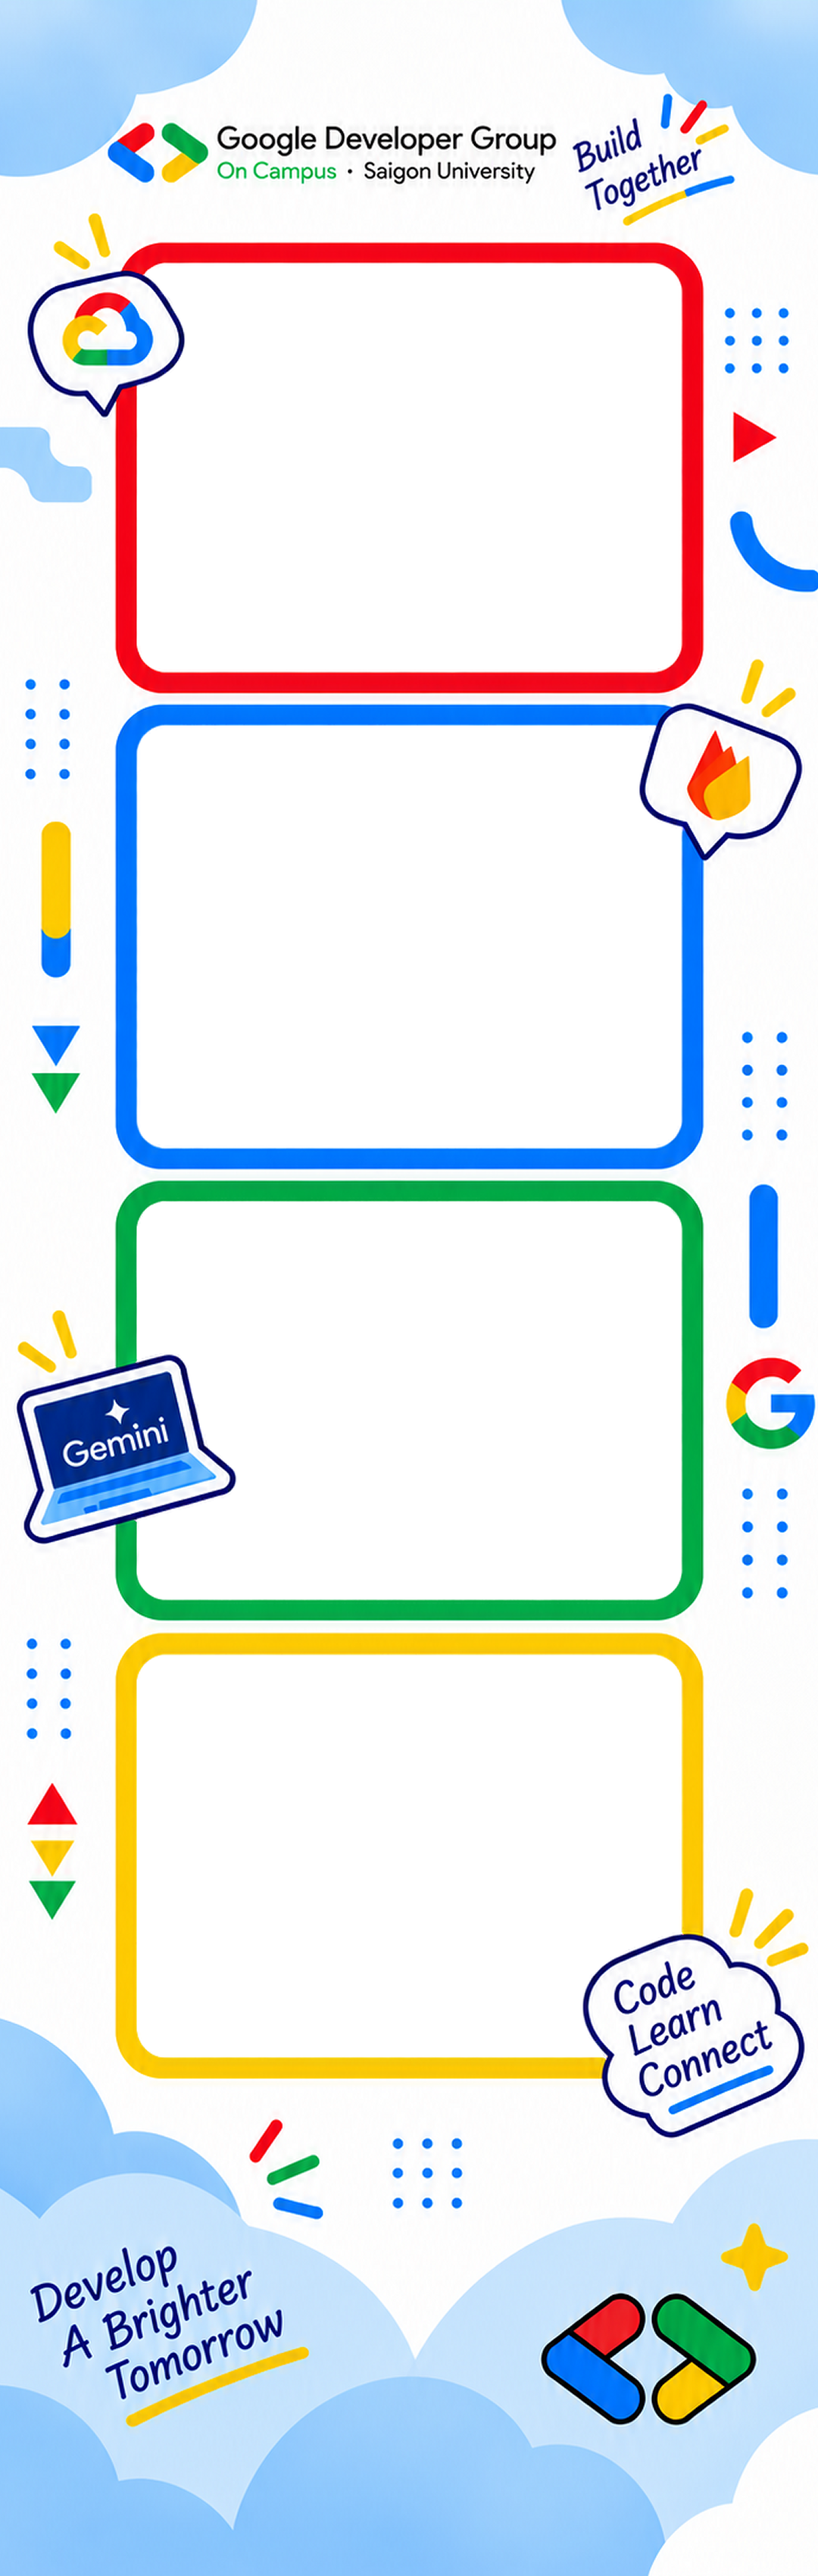
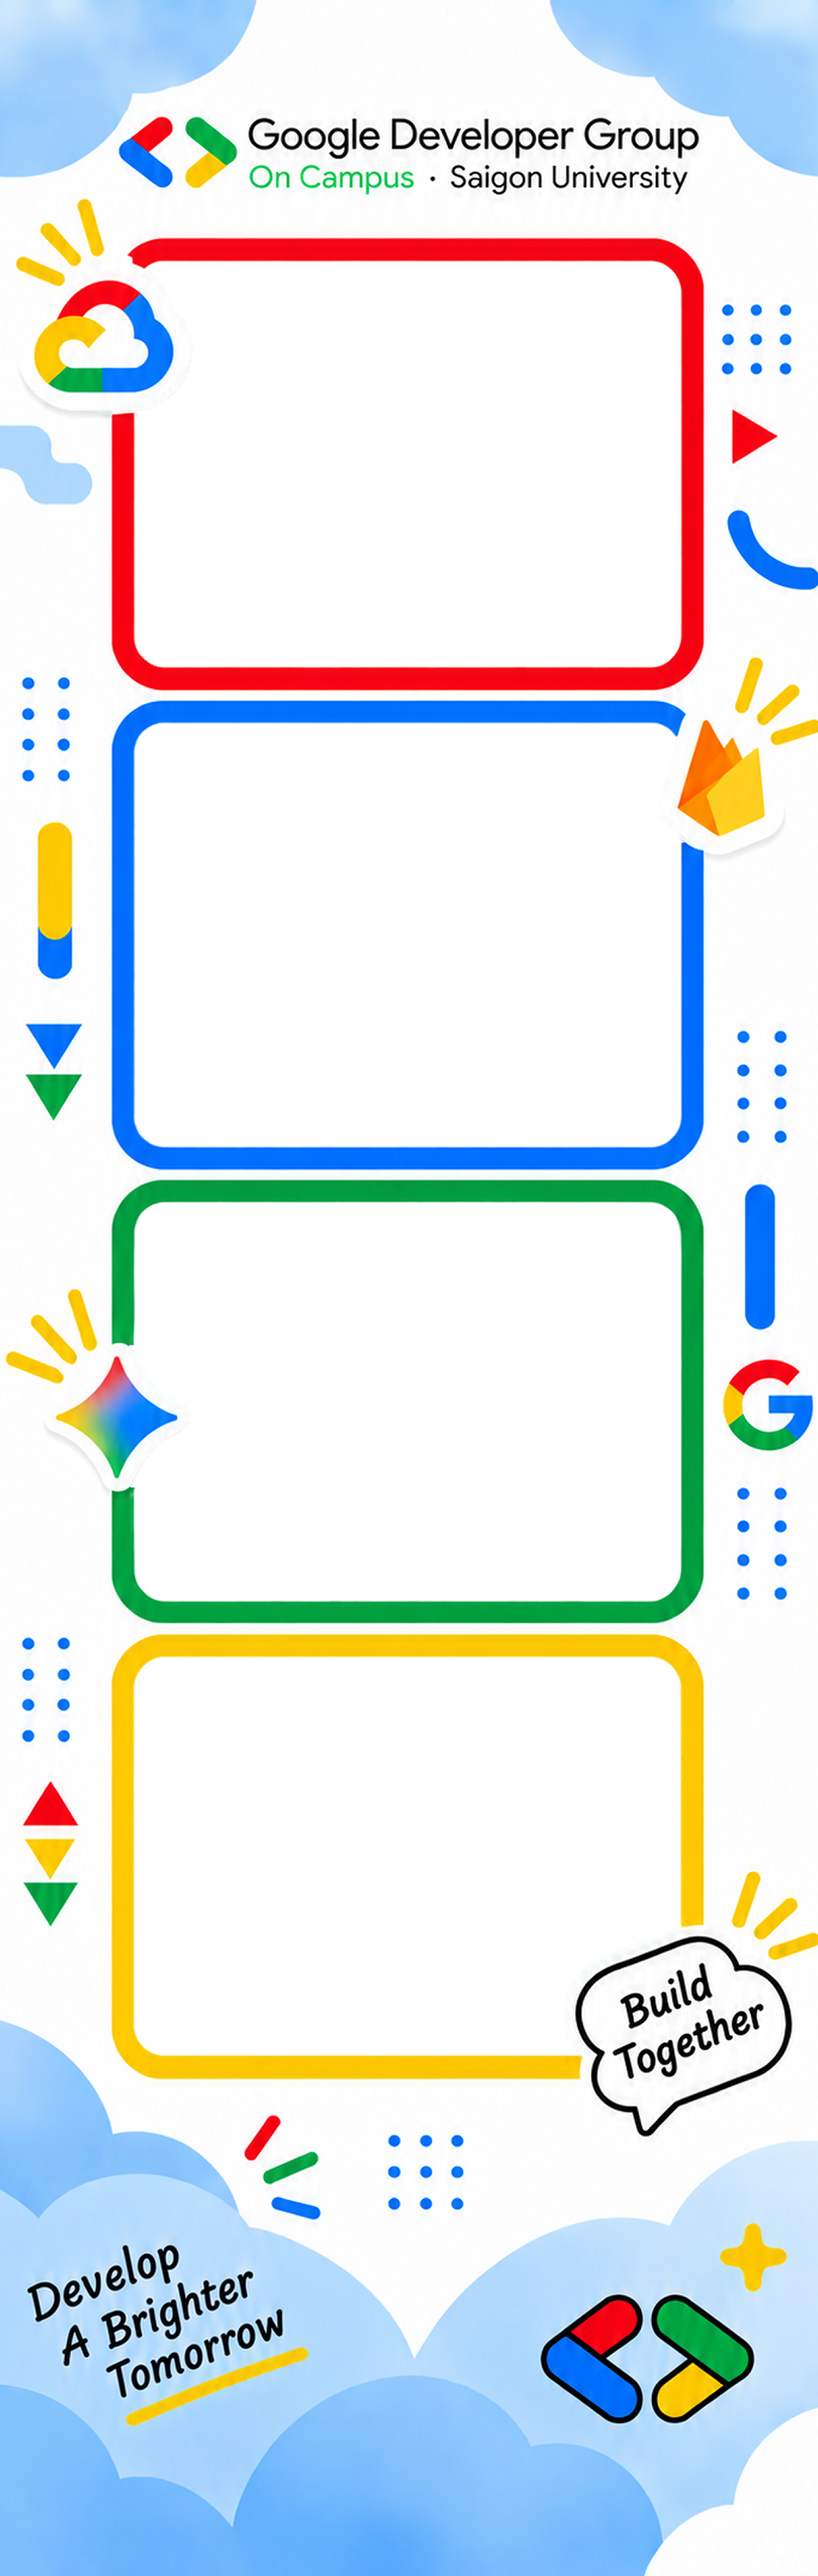
feat(frontend): bộ khung 4 mẫu theo design — F03 ISF, F04 khung chờ
Bảng F-SYS của design giờ có 4 khung, và frames.json của nó khác bản trong
repo ở ba chỗ:

- F01 GDGoC có artwork mới (sticker "Build Together" thay "Code Learn
  Connect", Gemini mới), nên toạ độ bốn ô cũng đổi theo.
- F03 không còn là khung đối tác (f03-partners) mà là khung ISF · Khoa CNTT
  (f03-isf), artwork và ô ảnh riêng.
- Thêm F04 (f04-tpl), khung chờ vẽ trên lưới F-SPEC: chỗ đặt logo BTC ở
  header, logo đối tác ở footer. BTC gửi artwork thì chỉ thay PNG.

Ba PNG lấy nguyên từ asset của design (1080×3400, alpha thật). F02 trùng
khít bản đang có nên giữ. Backend chỉ yêu cầu frameVariant là chuỗi nên
không phải sửa. Dữ liệu mẫu của mock và kiểu FrameId đổi theo id mới.

diff --git a/frontend/src/lib/backend/mock.ts b/frontend/src/lib/backend/mock.ts
@@ -210,11 +210,11 @@ function seedModerationDemo() {
   if (store.photos.length > 0) return;
   const now = Date.now();
   const demo: Array<[string, string, PhotoStatus, string, number]> = [
-    ['mock-131', 'Đức Huy', 'pending', 'f03-partners', 1],
+    ['mock-131', 'Đức Huy', 'pending', 'f03-isf', 1],
     ['mock-130', 'Minh Triết', 'pending', 'f01-gdgoc', 4],
     ['mock-129', 'Lan Anh', 'pending', 'f02-aws', 6],
     ['mock-128', 'Hải Đăng', 'approved', 'f01-gdgoc', 20],
-    ['mock-127', 'Thu Hà', 'approved', 'f03-partners', 40],
+    ['mock-127', 'Thu Hà', 'approved', 'f03-isf', 40],
     ['mock-126', 'Quang Huy', 'removed', 'f02-aws', 90],
     ['mock-125', 'Bảo Ngọc', 'rejected', 'f01-gdgoc', 120],
   ];

diff --git a/frontend/src/types/frame.ts b/frontend/src/types/frame.ts
@@ -3,8 +3,8 @@
 /** Pixel rectangle on the canonical 1080 x 3400 canvas: [x, y, w, h]. */
 export type SlotRect = readonly [x: number, y: number, w: number, h: number];
 
-/** The three ids come from the design; `string & {}` keeps F04+ open. */
-export type FrameId = 'f01-gdgoc' | 'f02-aws' | 'f03-partners' | (string & {});
+/** The four ids come from the design; `string & {}` keeps F05+ open. */
+export type FrameId = 'f01-gdgoc' | 'f02-aws' | 'f03-isf' | 'f04-tpl' | (string & {});
 
 export interface FrameTemplate {
   id: FrameId;

diff --git a/frontend/src/features/moderation/format.ts b/frontend/src/features/moderation/format.ts
@@ -15,7 +15,7 @@ export function formatWaiting(sinceMs: number, nowMs: number): string {
 
 export const WAITING_OVERDUE_MS = 3 * 60_000;
 
-/** "f03-partners" -> "F03" — the row meta shows the short id, not the full title. */
+/** "f03-isf" -> "F03" — the row meta shows the short id, not the full title. */
 export function frameShortLabel(frameVariant: string): string {
   return /^f\d+/i.exec(frameVariant)?.[0].toUpperCase() ?? frameVariant;
 }
